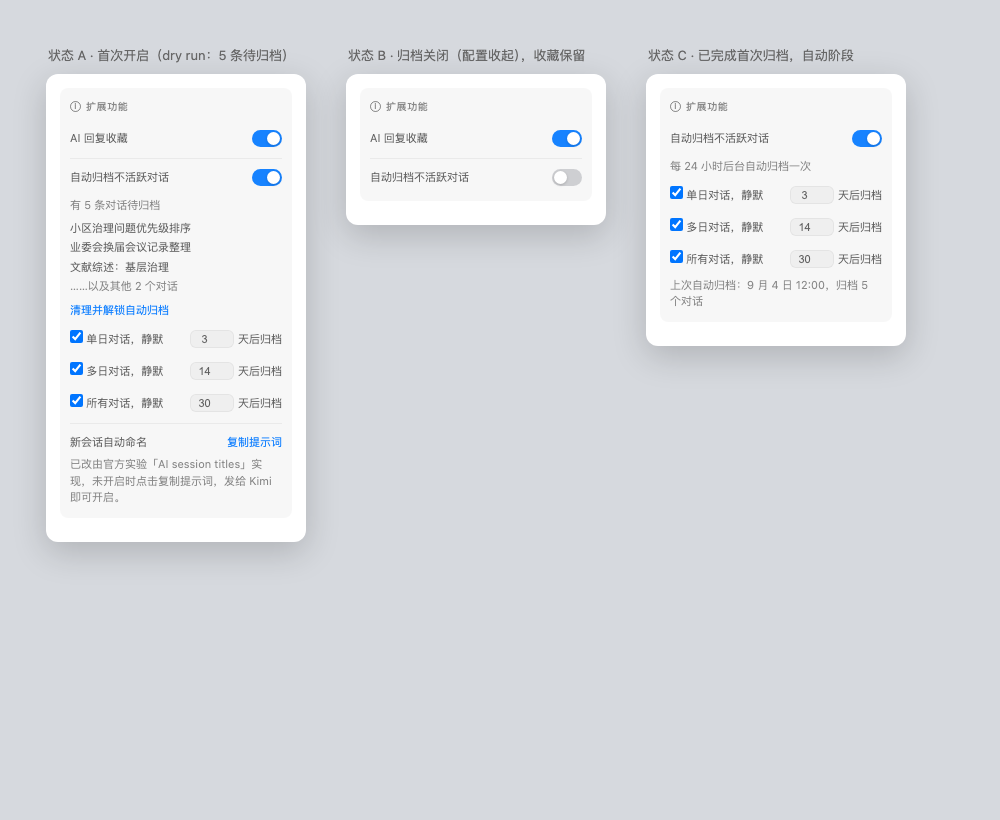
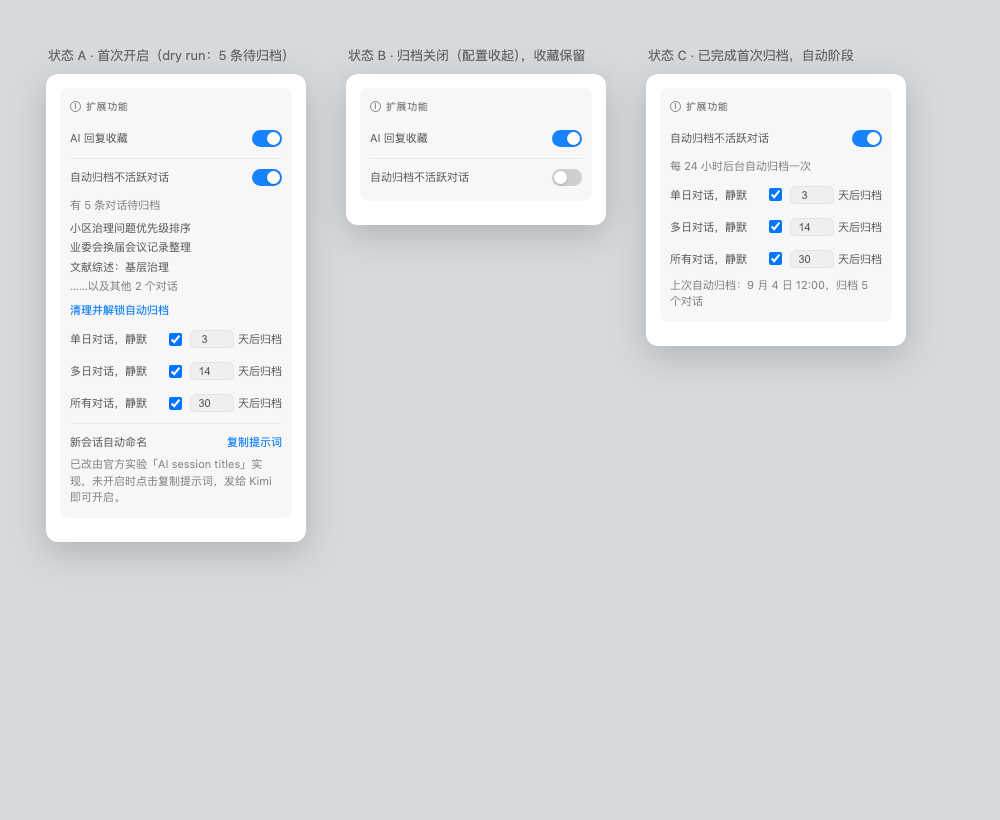
选项页/弹窗细节修复：对齐、勾选框右置、英文残留、编辑模式高度钳制
- 复制提示词与子块标题同行垂直对齐（appearance/align-self/line-height）
- 自动归档三档规则的勾选框移到行尾右对齐（与开关控件一致），行可换行
  防 EN 溢出；EN 规则标签改短句（idle ≥ days）
- 自动命名子块隐藏时连分割线一并隐藏
- 修复 EN 模式残留中文：面板 7d/30d 消耗与宠物 24h 消耗标签原为模块加载期
  冻结的 t()（部分根本未过 t()），改为渲染时翻译；CLI 状态卡的「账户 N」
  默认备注名按界面语言显示；补「每 24 小时后台归档/上次」两条缺失 EN 键
- 面板编辑模式高度钳制：保持底边固定、向上生长（内容滚动），不再顶出屏幕

测试 233 通过。

Changed region(s): [[0.651, 0.2134, 0.806, 0.3354], [0.062, 0.3963, 0.186, 0.5183]]

diff --git a/docs/extensions-card-mockup.html b/docs/extensions-card-mockup.html
@@ -87,15 +87,15 @@
             </div>
             <button type="button" class="action tidy-unlock-btn" style="margin-top:6px;">清理并解锁自动归档</button>
             <div class="tidy-row">
-              <label><input type="checkbox" checked> 单日对话，静默</label>
+              <label>单日对话，静默</label><input type="checkbox" checked style="justify-self:end;">
               <span class="status-actions"><input type="number" value="3" min="1" max="365"> 天后归档</span>
             </div>
             <div class="tidy-row">
-              <label><input type="checkbox" checked> 多日对话，静默</label>
+              <label>多日对话，静默</label><input type="checkbox" checked style="justify-self:end;">
               <span class="status-actions"><input type="number" value="14" min="1" max="365"> 天后归档</span>
             </div>
             <div class="tidy-row">
-              <label><input type="checkbox" checked> 所有对话，静默</label>
+              <label>所有对话，静默</label><input type="checkbox" checked style="justify-self:end;">
               <span class="status-actions"><input type="number" value="30" min="1" max="365"> 天后归档</span>
             </div>
           </div>
@@ -168,15 +168,15 @@
             </div>
             <p class="tidy-hint" style="margin-top:8px;">每 24 小时后台自动归档一次</p>
             <div class="tidy-row">
-              <label><input type="checkbox" checked> 单日对话，静默</label>
+              <label>单日对话，静默</label><input type="checkbox" checked style="justify-self:end;">
               <span class="status-actions"><input type="number" value="3" min="1" max="365"> 天后归档</span>
             </div>
             <div class="tidy-row">
-              <label><input type="checkbox" checked> 多日对话，静默</label>
+              <label>多日对话，静默</label><input type="checkbox" checked style="justify-self:end;">
               <span class="status-actions"><input type="number" value="14" min="1" max="365"> 天后归档</span>
             </div>
             <div class="tidy-row">
-              <label><input type="checkbox" checked> 所有对话，静默</label>
+              <label>所有对话，静默</label><input type="checkbox" checked style="justify-self:end;">
               <span class="status-actions"><input type="number" value="30" min="1" max="365"> 天后归档</span>
             </div>
             <p class="tidy-hint">上次自动归档：9 月 4 日 12:00，归档 5 个对话</p>

diff --git a/src/content/render.js b/src/content/render.js
@@ -29,7 +29,8 @@ import { t, statusText } from '../i18n.js';
 
 const STATUS_MIN_DISPLAY_MS = 1_500;
 const CHART_RANGE_DAYS = { week: 7, month: 30 };
-const CHART_RANGE_LABELS = { week: t('7d消耗'), month: t('30d消耗') };
+// 存原始键，渲染时 t()——模块加载期 t() 会被当时语言冻结，切换语言后不更新
+const CHART_RANGE_LABELS = { week: '7d消耗', month: '30d消耗' };
 
 // 窗口时长：5h 与 API 的 window.duration=300（分钟）一致；本周按 7 天
 const QUOTA_WINDOW_MS = { '5h': 300 * 60_000, week: 7 * 24 * 3_600_000 };
@@ -340,7 +341,7 @@ export function renderChart() {
   startDate.setDate(startDate.getDate() - (days - 1));
   const startKey = usageDayKey(startDate);
   const sum = sumUsageBetween(panel.usageDailyCache, startKey, endKey);
-  if (panel.els.chartLabel) panel.els.chartLabel.textContent = CHART_RANGE_LABELS[range] || CHART_RANGE_LABELS.week;
+  if (panel.els.chartLabel) panel.els.chartLabel.textContent = t(CHART_RANGE_LABELS[range] || CHART_RANGE_LABELS.week);
   panel.els.chartTotal.textContent = sum.totalTokens > 0 ? formatTokenCount(sum.totalTokens) : '--';
   const hitPct = sum.cacheHitRate != null ? `${formatPercentage(sum.cacheHitRate * 100)}%` : '';
   if (panel.els.chartHitFull) panel.els.chartHitFull.textContent = hitPct ? t('缓存命中 {pct}', { pct: hitPct }) : '';
@@ -537,7 +538,7 @@ export function renderExternal() {
 // 宠物模块右侧数据：六种口径可选（≡ 菜单切换），标签与数值联动
 const PET_STAT_DEFS = {
   daily: {
-    label: t('24h消耗'),
+    label: '24h消耗',
     value: () => {
       if (!panel.cliUsageConnected) return t('需连接 CLI');
       const bucket = panel.usageDailyCache[usageDayKey(new Date())];
@@ -573,7 +574,7 @@ const PET_STAT_DEFS = {
 export function renderPetStats() {
   if (!panel.els?.petTotal) return;
   const def = PET_STAT_DEFS[panel.widgetConfig.modules.pet?.stat] || PET_STAT_DEFS.daily;
-  if (panel.els.petLabel) panel.els.petLabel.textContent = def.label;
+  if (panel.els.petLabel) panel.els.petLabel.textContent = t(def.label);
   panel.els.petTotal.textContent = def.value();
 }
 

diff --git a/src/i18n.js b/src/i18n.js
@@ -287,12 +287,15 @@ const EN = {
   'AI 回复收藏：点击 AI 回复下方的星标即可收藏，在侧栏随时回看；内容只保存在本地。<br><br>自动归档不活跃对话：按静默天数把不活跃的对话自动移入「已完成」，保持「进行中」列表干净。': 'AI reply bookmarks: click the star below an AI reply to bookmark it and revisit from the sidebar; content stays on this device.<br><br>Auto-archive inactive chats: moves inactive sessions to "Done" after their idle days threshold, keeping the "Open" list clean.',
   'AI 回复收藏': 'AI reply bookmarks',
   '自动归档不活跃对话': 'Auto-archive inactive chats',
-  '单日对话，静默': 'Single-day, idle for',
-  '多日对话，静默': 'Multi-day, idle for',
-  '所有对话，静默': 'Any session, idle for',
-  '天后归档': 'days → archive',
   '没有符合条件的对话': 'No sessions match the rules',
   '点击解锁自动归档': 'Click to unlock auto-archive',
+  '每 24 小时后台自动归档一次': 'Auto-archives in the background every 24 hours',
+  '每 24 小时后台自动归档一次；上次：{time}，归档 {n} 个对话': 'Auto-archives every 24 hours; last run {time}, {n} sessions archived',
+  '账户 {n}': 'Account {n}',
+  '单日对话，静默': 'Single-day, idle ≥',
+  '多日对话，静默': 'Multi-day, idle ≥',
+  '所有对话，静默': 'Any session, idle ≥',
+  '天后归档': 'days',
   '三条规则相互独立：勾选即启用、去掉即停用，天数可随时调整。之后每 24 小时按勾选的规则在后台自动归档。点击其他位置关闭本说明。': 'The three rules are independent: tick to enable, untick to disable; the day thresholds are adjustable. Archives run every 24 hours for the ticked rules. Click anywhere else to close this note.',
   '知道了': 'Got it',
   '已改由官方实验「AI session titles」实现，未开启时点击复制提示词，发给 Kimi 即可开启。': 'Now powered by the official Kimi CLI experiment "AI session titles". If it is not enabled yet, click Copy prompt and send it to Kimi to switch on.',

diff --git a/popup.html b/popup.html
@@ -147,22 +147,22 @@
         <div class="tidy-config">
           <div id="tidy-candidates" class="tidy-candidates hidden"></div>
           <div class="tidy-row">
-            <label><input type="checkbox" id="tidy-rule-single" checked> 单日对话，静默</label>
-            <span class="status-actions"><input type="number" id="tidy-t1" min="1" max="365" value="3"> 天后归档</span>
+            <label>单日对话，静默 <input type="number" id="tidy-t1" min="1" max="365" value="3"> 天后归档</label>
+            <input type="checkbox" id="tidy-rule-single" checked>
           </div>
           <div class="tidy-row">
-            <label><input type="checkbox" id="tidy-rule-multi" checked> 多日对话，静默</label>
-            <span class="status-actions"><input type="number" id="tidy-t2" min="1" max="365" value="14"> 天后归档</span>
+            <label>多日对话，静默 <input type="number" id="tidy-t2" min="1" max="365" value="14"> 天后归档</label>
+            <input type="checkbox" id="tidy-rule-multi" checked>
           </div>
           <div class="tidy-row">
-            <label><input type="checkbox" id="tidy-rule-all" checked> 所有对话，静默</label>
-            <span class="status-actions"><input type="number" id="tidy-t3" min="1" max="365" value="30"> 天后归档</span>
+            <label>所有对话，静默 <input type="number" id="tidy-t3" min="1" max="365" value="30"> 天后归档</label>
+            <input type="checkbox" id="tidy-rule-all" checked>
           </div>
           <div class="tidy-hint" id="tidy-hint" hidden></div>
         </div>
       </div>
 
-      <div class="feature-divider"></div>
+      <div class="feature-divider" id="ext-rename-divider"></div>
 
       <div class="ext-block on" id="ext-rename-block">
         <div class="ext-block-head">

diff --git a/src/popup/accounts.js b/src/popup/accounts.js
@@ -17,6 +17,12 @@ window.addEventListener('pagehide', () => {
 /* ---------- Kimi 账户：多账户列表（切换/改名/重新授权/移除/添加） ---------- */
 
 let kimiAccounts = [];
+
+// 默认备注名（扩展自己生成的「账户 N」）按界面语言显示；用户自定义名原样返回
+function displayAccountName(label) {
+  const m = /^账户 (\d+)$/.exec(String(label || ''));
+  return m ? t('账户 {n}', { n: m[1] }) : label;
+}
 let flowActive = false;
 // 授权流程启动前的基线，轮询据此判断流程是真的完成还是超时/被取消
 let flowBaseline = null;
@@ -46,7 +52,9 @@ function renderKimiAccounts() {
 
     const name = document.createElement('span');
     name.className = 'ext-name';
-    name.textContent = account.needsReauth ? `${account.label}${t('（需重新授权）')}` : account.label;
+    // 默认备注名（账户 N）按界面语言显示；用户自定义名原样
+    const displayAccountLabel = displayAccountName(account.label);
+    name.textContent = account.needsReauth ? `${displayAccountLabel}${t('（需重新授权）')}` : displayAccountLabel;
     name.title = name.textContent;
     row.append(name);
 

diff --git a/src/content/widget-structure.js b/src/content/widget-structure.js
@@ -475,6 +475,14 @@ export function enterEditMode() {
   if (!panel.els?.widget) return;
   editing = true;
   panel.els.widget.classList.add('ksb-editing');
+  // 高度钳制：编辑模式下面板变长时保持底边固定、向上生长（内容滚动），
+  // 不再向下顶出屏幕下边缘
+  const rect = panel.els.widget.getBoundingClientRect();
+  const available = window.innerHeight - rect.top - 12;
+  if (available > 240) {
+    panel.els.widget.style.maxHeight = `${Math.floor(available)}px`;
+    panel.els.widget.style.overflowY = 'auto';
+  }
   // 重建以挂载顶部隐藏区，隐藏模块在编辑模式下全部可见
   renderWidgetStructure();
   setConnectionHint(t('编辑模式：拖拽模块排序，点 ≡ 配置，Esc 或点空白处完成'));
@@ -489,6 +497,8 @@ export function exitEditMode() {
   menuModuleId = null;
   hideModuleMenu();
   panel.els?.widget?.classList.remove('ksb-editing');
+  panel.els?.widget?.style.removeProperty('max-height');
+  panel.els?.widget?.style.removeProperty('overflow-y');
   // 重建以卸下隐藏区，隐藏模块回到不可见
   renderWidgetStructure();
   setConnectionHint('');

diff --git a/src/popup/rename.js b/src/popup/rename.js
@@ -14,6 +14,7 @@ import { t } from '../i18n.js';
 
 const copyBtn = document.getElementById('rename-copy-prompt');
 const extRenameBlock = document.getElementById('ext-rename-block');
+const extRenameDivider = document.getElementById('ext-rename-divider');
 
 // 交给 kimi 执行的提示词（用户审定文本，勿改动措辞）
 const PROMPT = [
@@ -63,7 +64,10 @@ async function refreshOfficialStatus() {
   if (!extRenameBlock) return;
   try {
     const response = await send('rename.official.status');
-    if (response?.ok && response.enabled) extRenameBlock.classList.add('hidden');
+    if (response?.ok && response.enabled) {
+      extRenameBlock.classList.add('hidden');
+      extRenameDivider?.classList.add('hidden');
+    }
   } catch { /* 无打开页面：保持显示 */ }
 }
 

diff --git a/popup.css b/popup.css
@@ -825,6 +825,7 @@
   }
 
   /* 子块：功能名 + 开关，说明文字用注释字号；关闭时配置收起 */
+  .ksb-editing, .ksb-widget.ksb-editing { overflow-y: auto; }
   .ext-block { padding: 2px 0; }
   .ext-block-head {
     display: flex;
@@ -859,6 +860,7 @@
     gap: 8px;
     margin-top: 8px;
     min-height: 24px;
+    flex-wrap: wrap;
   }
   .tidy-row label {
     font-size: 11px;
@@ -876,7 +878,8 @@
     color: inherit;
   }
   .tidy-row.off { opacity: 0.45; }
-  .tidy-row label { cursor: pointer; }
+  .tidy-row label { flex: 1 1 auto; min-width: 0; cursor: pointer; }
+  .tidy-row input[type="checkbox"] { flex-shrink: 0; justify-self: end; }
   .tidy-row input[type="checkbox"] { flex-shrink: 0; }
   .tidy-row .status-actions {
     display: inline-flex;
